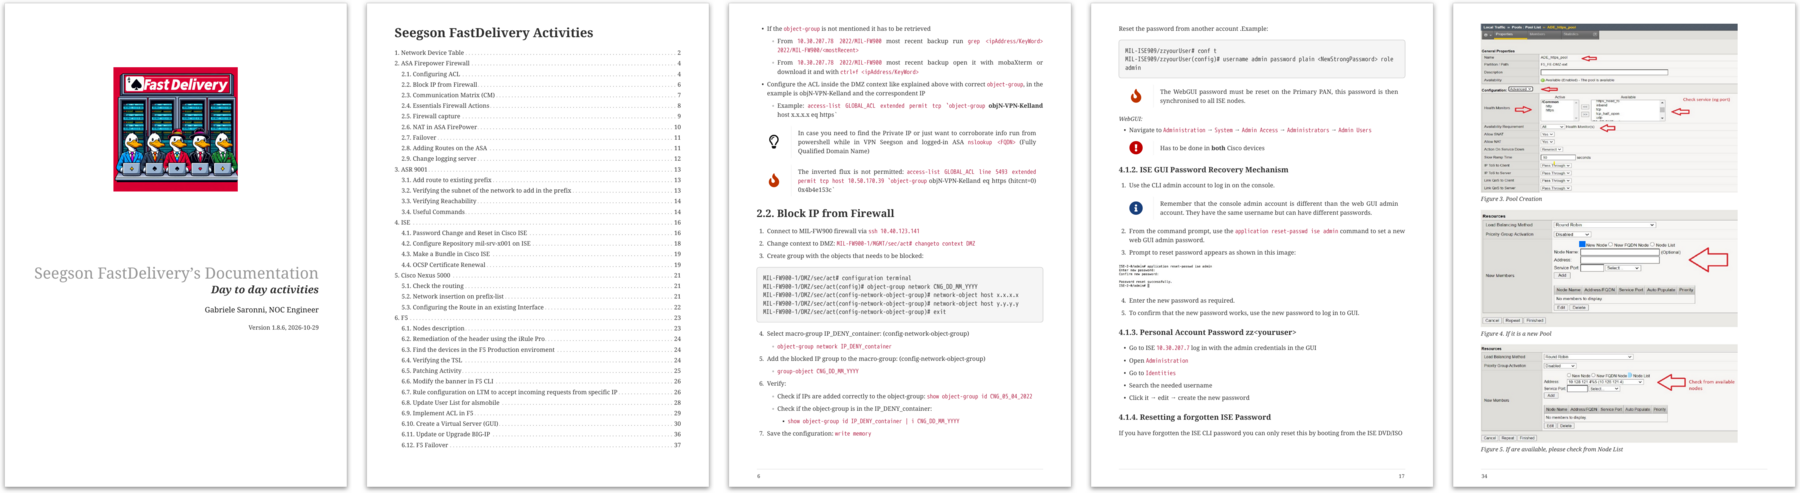
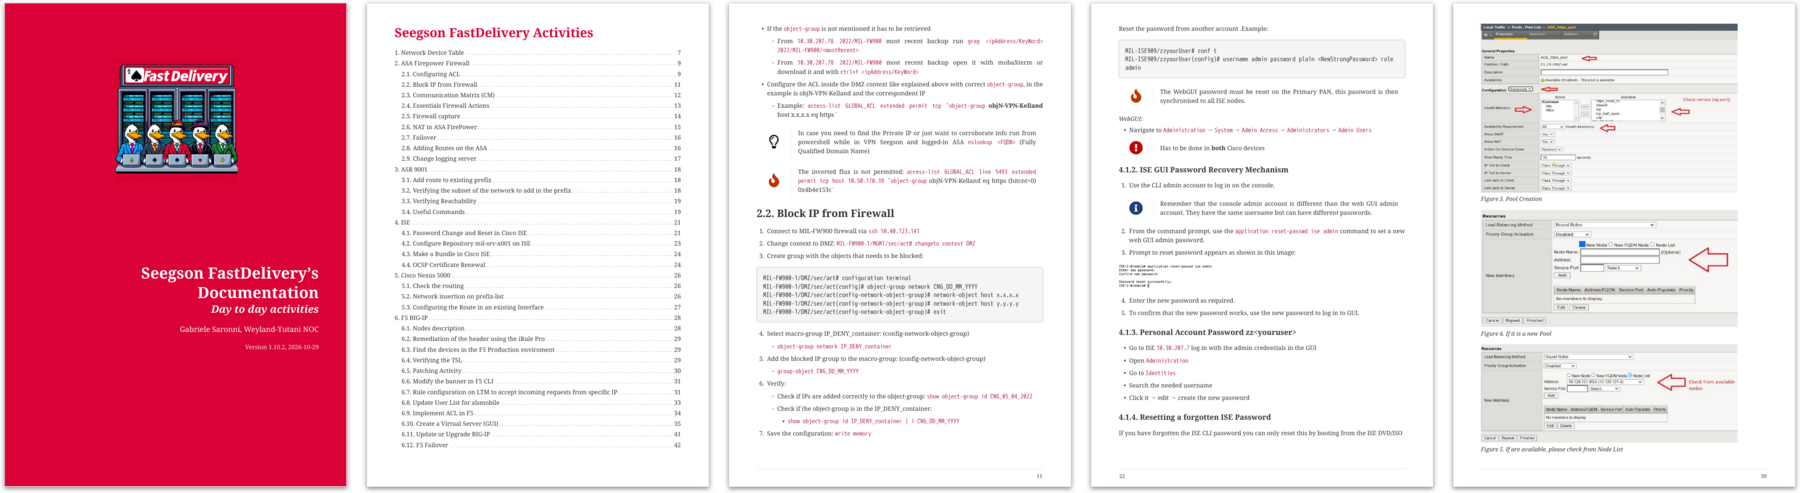
docs: site accent colours matching the PDF, refreshed README preview

Changed region(s): [[0.0, 0.0, 0.3422, 1.0]]

diff --git a/supplemental-ui/css/fastdelivery.css b/supplemental-ui/css/fastdelivery.css
@@ -1,0 +1,53 @@
+/* FastDelivery accent for the Antora default UI, matching the PDF theme (#DA0236). */
+:root {
+  --fd-red: #da0236;
+  --fd-red-dark: #b8022d;
+}
+
+/* Navbar: red bar, white brand */
+.navbar {
+  background: var(--fd-red);
+}
+
+.navbar-brand .navbar-item,
+.navbar-brand .navbar-item:hover {
+  color: #fff;
+}
+
+.navbar-burger span {
+  background: #fff;
+}
+
+.navbar .button.is-primary {
+  background: #fff;
+  border-color: #fff;
+  color: var(--fd-red);
+}
+
+/* Desktop only: on mobile the menu opens as a white panel and keeps its dark text */
+@media screen and (min-width: 1024px) {
+  .navbar-end > a.navbar-item {
+    color: #fff;
+  }
+
+  .navbar-end > a.navbar-item:hover {
+    background: var(--fd-red-dark);
+    color: #fff;
+  }
+}
+
+/* Section headings in red, like the chapter headings in the PDF */
+.doc h2 {
+  color: var(--fd-red);
+}
+
+/* Current page in the navigation and the active entry in "Contents" */
+.nav-item.is-current-page > .nav-link {
+  color: var(--fd-red);
+  font-weight: 600;
+}
+
+.toc-menu a.is-active {
+  color: var(--fd-red);
+  border-left-color: var(--fd-red);
+}

diff --git a/README.md b/README.md
@@ -11,7 +11,7 @@ Technical documentation treated like software: AsciiDoc source under version con
 
 [![Pages from the built PDF: cover, table of contents, a firewall procedure, an ISE procedure and an annotated F5 walkthrough](assets/runbook-preview.png)](https://github.com/gsaronni/docs-as-code-showcase/releases/latest/download/fastdelivery-runbook.pdf)
 
-<sub>Pages from the PDF that CI builds on every change: 130 pages, 29 chapters, 61 screenshots. Click to download.</sub>
+<sub>Pages from the PDF that CI builds on every change: 139 pages, 29 chapters, 61 screenshots. Click to download.</sub>
 
 ## What this is
 
